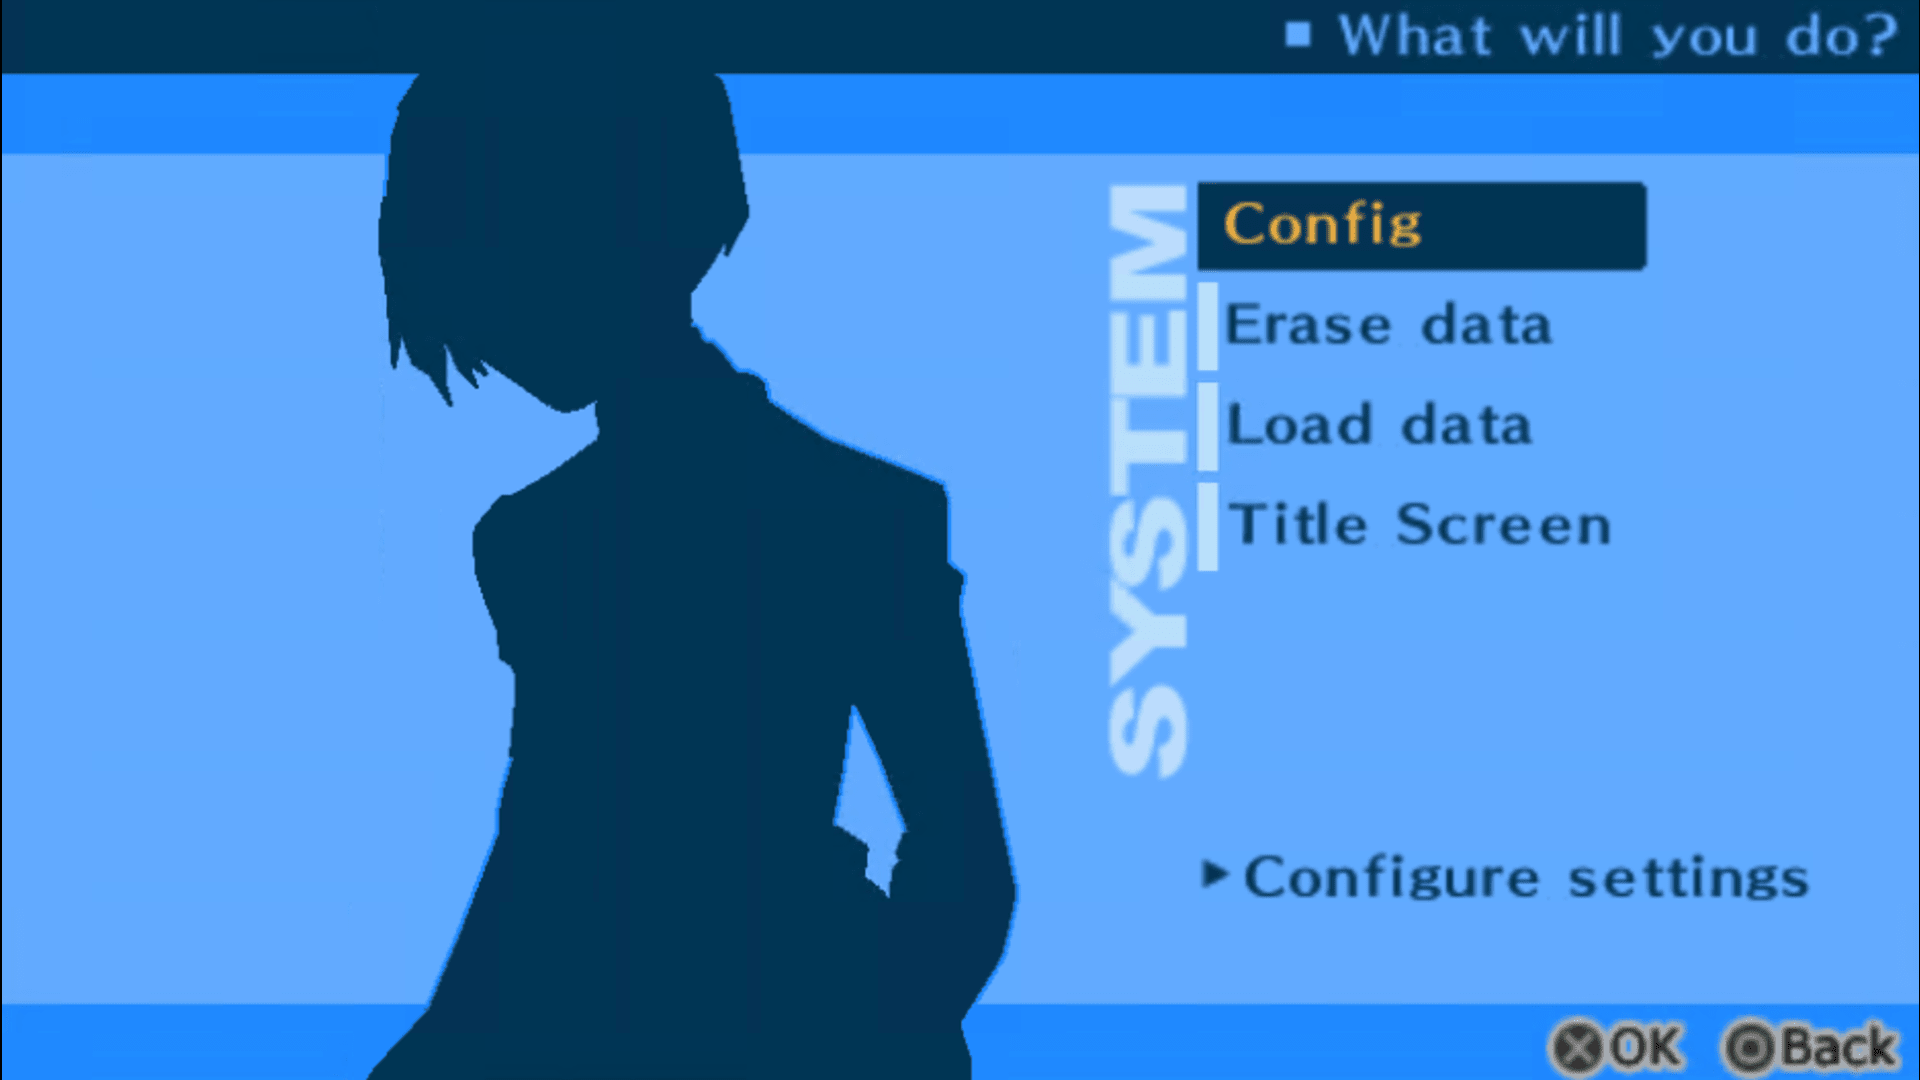
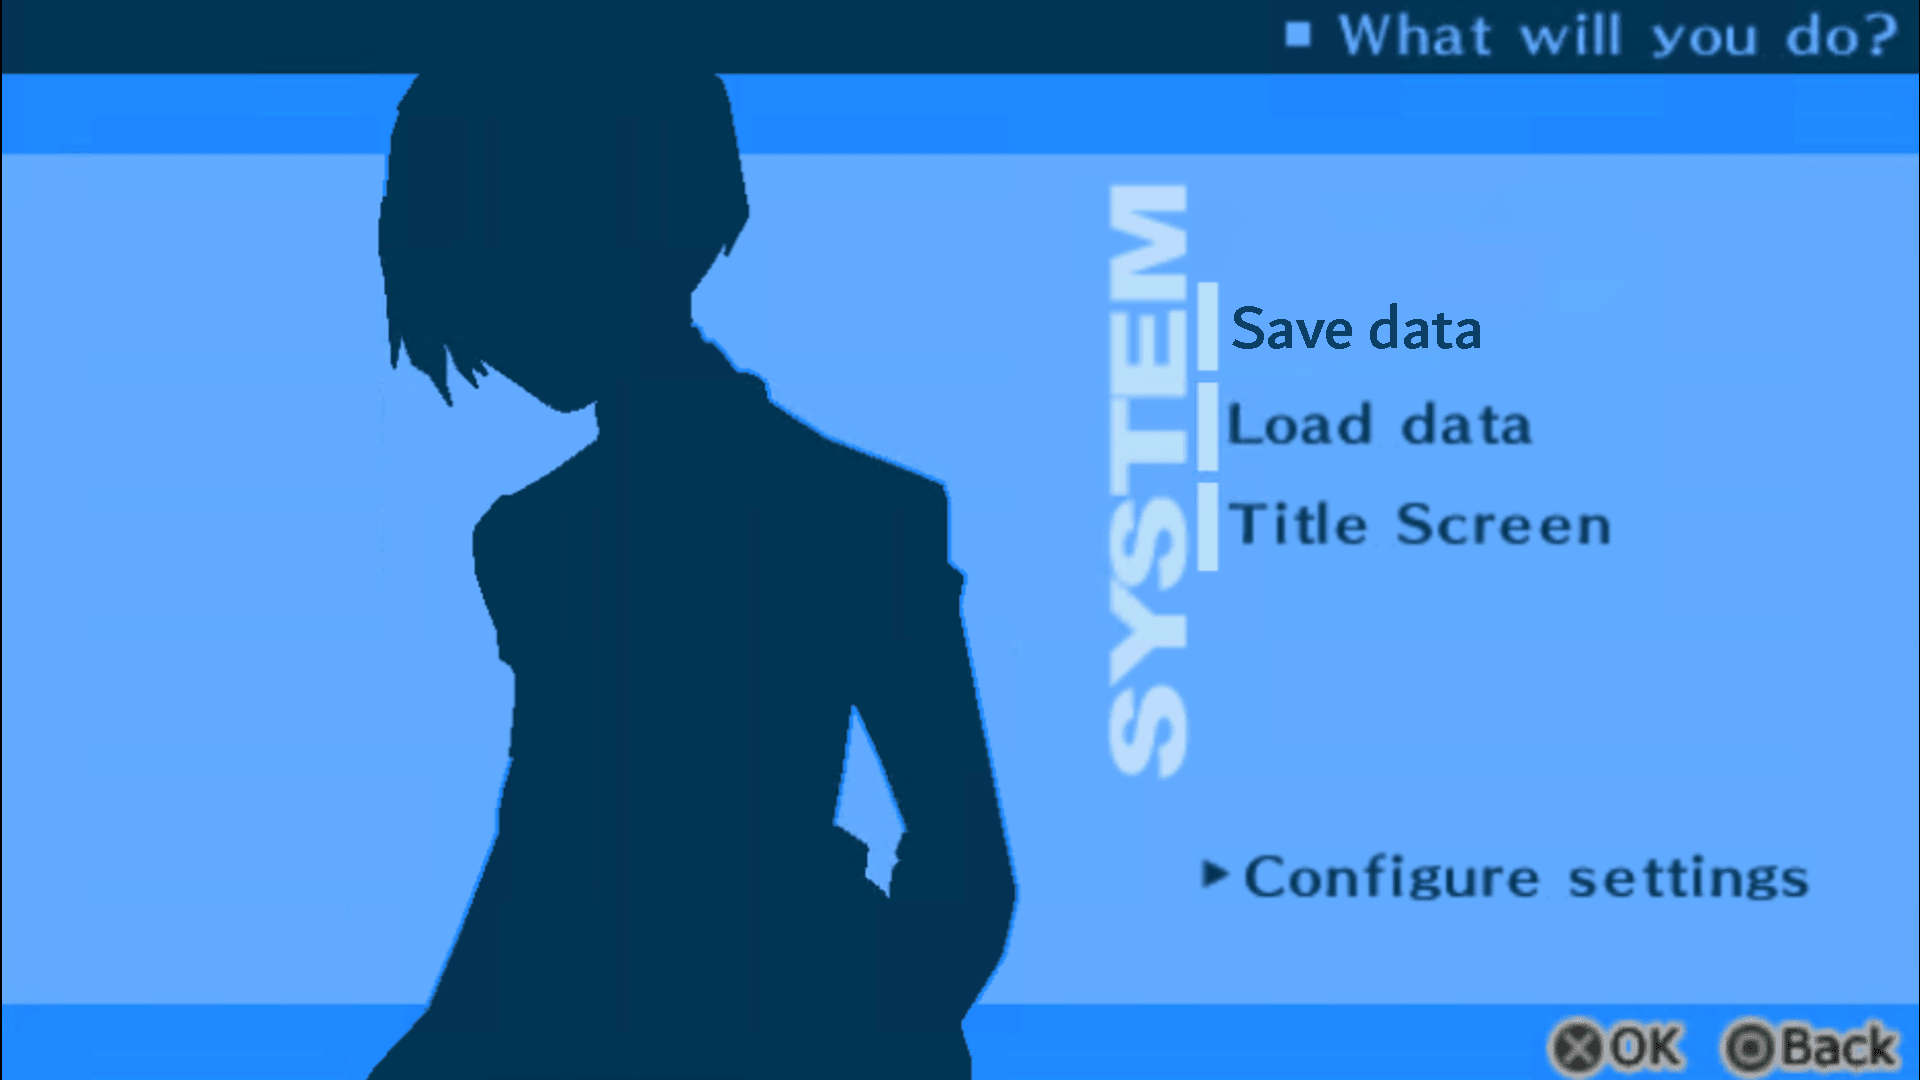
basically done

Changed region(s): [[0.625, 0.1528, 0.875, 0.3361]]

diff --git a/src/PersonaPanel.java b/src/PersonaPanel.java
@@ -27,9 +27,9 @@ public class PersonaPanel extends JPanel
 	public Graphics2D g;
 	private Player player;
 	private ImageIcon bg;
-	private final Shadow SLIME, ANGEL;
+	private final Shadow SLIME, ANGEL, JACK;
 	private ArrayList<Shadow> shadows;
-	private boolean personaSelected, won;
+	private boolean personaSelected, won, saveData, loadData, inTitleScreen;
 	
 	// sets up the initial panel for drawing with proper size
 	public PersonaPanel(int w, int h)
@@ -48,7 +48,8 @@ public class PersonaPanel extends JPanel
 		panel = new JPanel();
 		panel.setPreferredSize(new Dimension(0,0));
 		SLIME = new Shadow(new ImageIcon("assets/shadows/Slime;Right.png"), 1000, 500, 50, 33, new int[]{10, 11, 12, 13}, new String[]{"Headbutt", "Agi", "Zio", "Lunge"}, new String[]{"Phys", "Fire", "Electric", "Phys"}, 100, "Phys", 1);
-		ANGEL = new Shadow(new ImageIcon("assets/shadows/Angel;Right.png"), 1000, 500, 50, 68, new int[]{12, 13, 15, 17}, new String[]{"Assualt Dive", "Bufu", "Inferno", "Sword Dance"}, new String[]{"Phys", "Ice", "Fire", "Phys"}, 105, "Electric", 1);
+		ANGEL = new Shadow(new ImageIcon("assets/shadows/Angel;Right.png"), 1000, 500, 50, 68, new int[]{12, 13, 15, 17}, new String[]{"Assualt Dive", "Bufu", "Inferno", "Sword Dance"}, new String[]{"Phys", "Ice", "Fire", "Phys"}, 104, "Electric", 1);
+		JACK = new Shadow(new ImageIcon("assets/shadows/Jack o' Lantern;Right.png"), 1000, 500, 50, 56, new int[]{14, 13, 17, 22}, new String[]{"Brave Blade", "Agi", "Zio", "Agidyne"}, new String[]{"Phys", "Fire", "Electric", "Fire"}, 106, "Fire", 1);
 		shadows = new ArrayList<Shadow>();
 		loadShadows();
 		personaSelected = false;
@@ -56,8 +57,9 @@ public class PersonaPanel extends JPanel
 		gxp = 0;
 		won = false;
 		sDamage = 0;
-		player.setY(7700);
-		player.setX(7700);
+		saveData = false;
+		loadData = false;
+		titleScreen = false;
 		
 		this.add(panel);
 		this.addKeyListener(new KeyListen());
@@ -106,6 +108,13 @@ public class PersonaPanel extends JPanel
 				g.drawString("" + player.getLevel(), 405, 960);
 				g.drawString("" + gxp, 720, 395);
 				
+			}
+			else if(player.isDead())
+			{
+				ImageIcon gOver = new ImageIcon("assets/GameOver.png");
+				ImageIcon selectT = new ImageIcon("assets/fight/menuSelectTriangle.png");
+				gOver.paintIcon(panel, g, 0, 0);
+				selectT.paintIcon(panel, g, 1075, 830+pSel*65);
 			}
 			else if(player.isPlayerTurn())
 			{
@@ -183,9 +192,9 @@ public class PersonaPanel extends JPanel
 			if(player.isInMenu())
 			{
 				ImageIcon menu = new ImageIcon("assets/menuScreen.png");
-				ImageIcon selectTriangle = new ImageIcon("assets/fight/selectTriangle.png");
+				ImageIcon selectTriangle = new ImageIcon("assets/fight/menuSelectTriangle.png");
 				menu.paintIcon(panel, g, 0, 0);
-				//selectTriangle.paintIcon(panel, g, gxp, gxp);
+				selectTriangle.paintIcon(panel, g, 1700, 315 + (pSel*100));
 			}
 		}
 		
@@ -245,10 +254,13 @@ public class PersonaPanel extends JPanel
 							}
 						}
 					}
-					if(!((int)(Math.random() * 3) == 0))
+					int g = (int)(Math.random() * 3);
+					if(g == 0)
 						shadows.add(SLIME.copy(x, y, player));
-					else
+					else if (g == 1)
 						shadows.add(ANGEL.copy(x, y, player));
+					else if (g == 2)
+						shadows.add(JACK.copy(x, y, player));
 				}
 			}
 		}
@@ -277,17 +289,37 @@ public class PersonaPanel extends JPanel
 					won = false;
 				}
 			}
+			else if(player.isDead())
+			{
+				switch(e.getKeyCode())
+				{
+					case KeyEvent.VK_W:
+						if(pSel == 0);
+						else pSel--;
+						break;
+					case KeyEvent.VK_S:
+						if(pSel == 2);
+						else pSel++;
+						break;
+					case KeyEvent.VK_SPACE:
+						if(pSel == 0)
+							loadData = true;
+						else if(pSel == 1);
+						else if(pSel == 2);
+						
+				}
+			}
 			else if(player.isInMenu())
 			{
 				switch(e.getKeyCode()) 
 				{
 					case KeyEvent.VK_W:
 						if(pSel == 0);
-						else pSel++;
+						else pSel--;
 						break;
 					case KeyEvent.VK_S:
-						if(pSel == 3);
-						else pSel--;
+						if(pSel == 2);
+						else pSel++;
 						break;
 					case KeyEvent.VK_F:
 						player.setInMenu(false);
@@ -295,9 +327,11 @@ public class PersonaPanel extends JPanel
 						battleTimer.stop();
 						break;
 					case KeyEvent.VK_SPACE:
-						if(pSel == 1);
+						if(pSel == 0)
+							saveData = true;
+						else if(pSel == 1)
+							loadData = true;
 						else if(pSel == 2);
-						else if(pSel == 3);
 				}				
 			}
 			else if(!player.isFighting())
@@ -401,6 +435,7 @@ public class PersonaPanel extends JPanel
 						if(player.getHp() <= 0)
 						{
 							player.setDead(true);
+							pSel = 0;
 							player.setFighting(false);
 							timer.start();
 							battleTimer.stop();
@@ -443,14 +478,50 @@ public class PersonaPanel extends JPanel
 		{
 			Object source = e.getSource();
 			
+			if(saveData)
+			{
+				try 
+				{
+					File file = new File("save.txt");
+					FileWriter writer = new FileWriter("save.txt");
+					writer.write("" + player.getLevel() + "," + player.getXp() + "," + player.getMaxHP());
+					writer.close();
+					saveData = false;
+				}
+				catch(Exception t)
+				{
+					System.out.println(t);
+				}
+				
+			}
+			if(loadData)
+			{
+				reset();
+				try
+				{
+					Scanner scan = new Scanner(new File("save.txt"));
+					scan.useDelimiter(",");
+					reset();
+					player.setLevel(Integer.parseInt(scan.next()));
+					player.setXp(Integer.parseInt(scan.next()));
+					player.setMaxHP(Integer.parseInt(scan.next()));
+				}
+				catch(Exception t)
+				{
+					System.out.println(t);
+				}
+				
+				battleTimer.stop();
+				timer.start();
+				loadData = false;
+			}
+			
 			if(source.equals(timer) && !player.isFighting())
 			{
 				update();
 			}
 			else 
-			{
 				repaint();
-			}
 			
 		}
 
@@ -549,19 +620,10 @@ public class PersonaPanel extends JPanel
 	
 	public void reset()
 	{
-		player.setX(960);
-		player.setY(540);
-		player.setDead(false);
-		player.setLevel(1);
-		player.setXp(0);
-		player.setGuarding(false);
-		player.setDead(false);
-		player.setMaxHP(100);
-		player.setInMenu(false);
-		player.setWalkingRight(false);
-		player.setWalkingLeft(false);
-		player.setWalkingUp(false);
-		player.setWalkingDown(false);
+		player = new Player(960, 540);
+		shadows.clear();
+		loadMap();
+		loadShadows();
 	}
 	
 	

diff --git a/src/Shadow.java b/src/Shadow.java
@@ -59,7 +59,7 @@ public class Shadow
 		int l = p.getLevel()+((int)(Math.random()* 6 - 3));
 		if(l < 1)
 			l = 1;
-		int hp = (int)(100 * Math.pow(1.05, l));
+		int hp = (int)(this.hp * Math.pow(1.05, l-1));
 		Shadow s = new Shadow(sprite, x, y, hitbox.width, hitbox.height, attackPows, attackNames, attackTypes, hp, type, l);
 		return s;
 	}

diff --git a/src/Player.java b/src/Player.java
@@ -327,7 +327,6 @@ public class Player
 	public void addXp(int xp)
 	{
 		this.xp += xp;
-		System.out.println(this.xp);
 		while(this.xp > level * 20)
 		{
 			this.xp -= level * 20;
